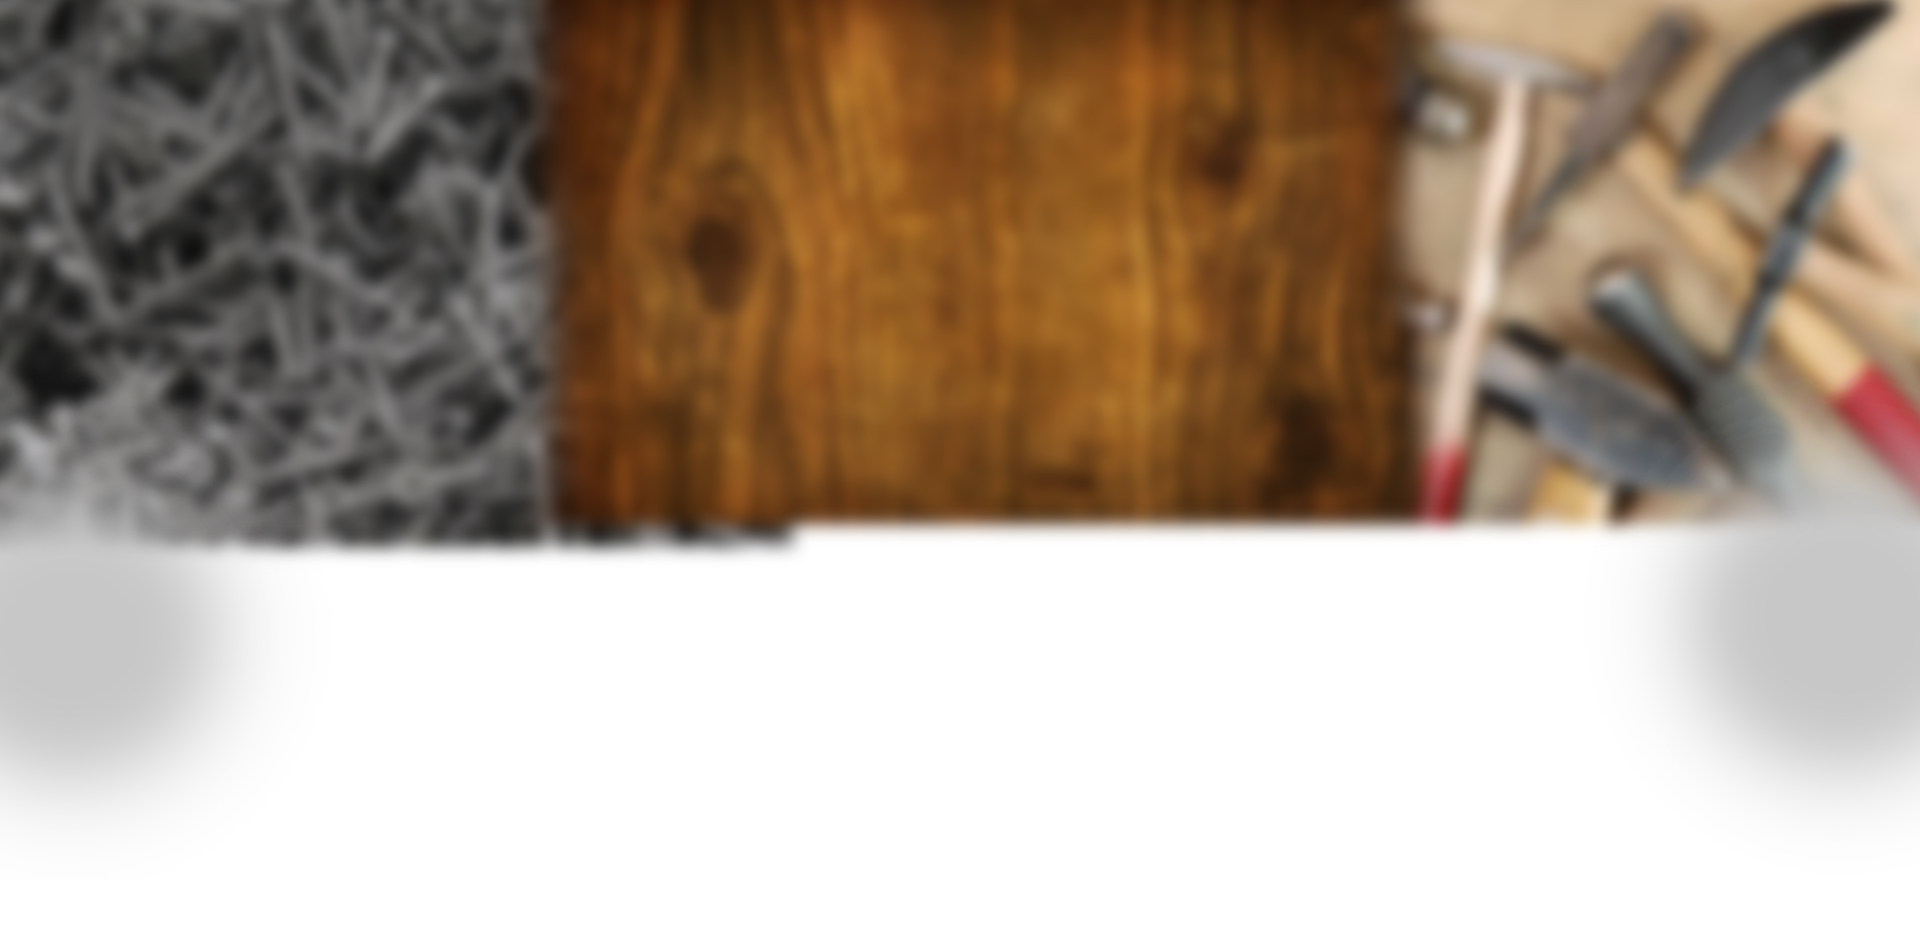
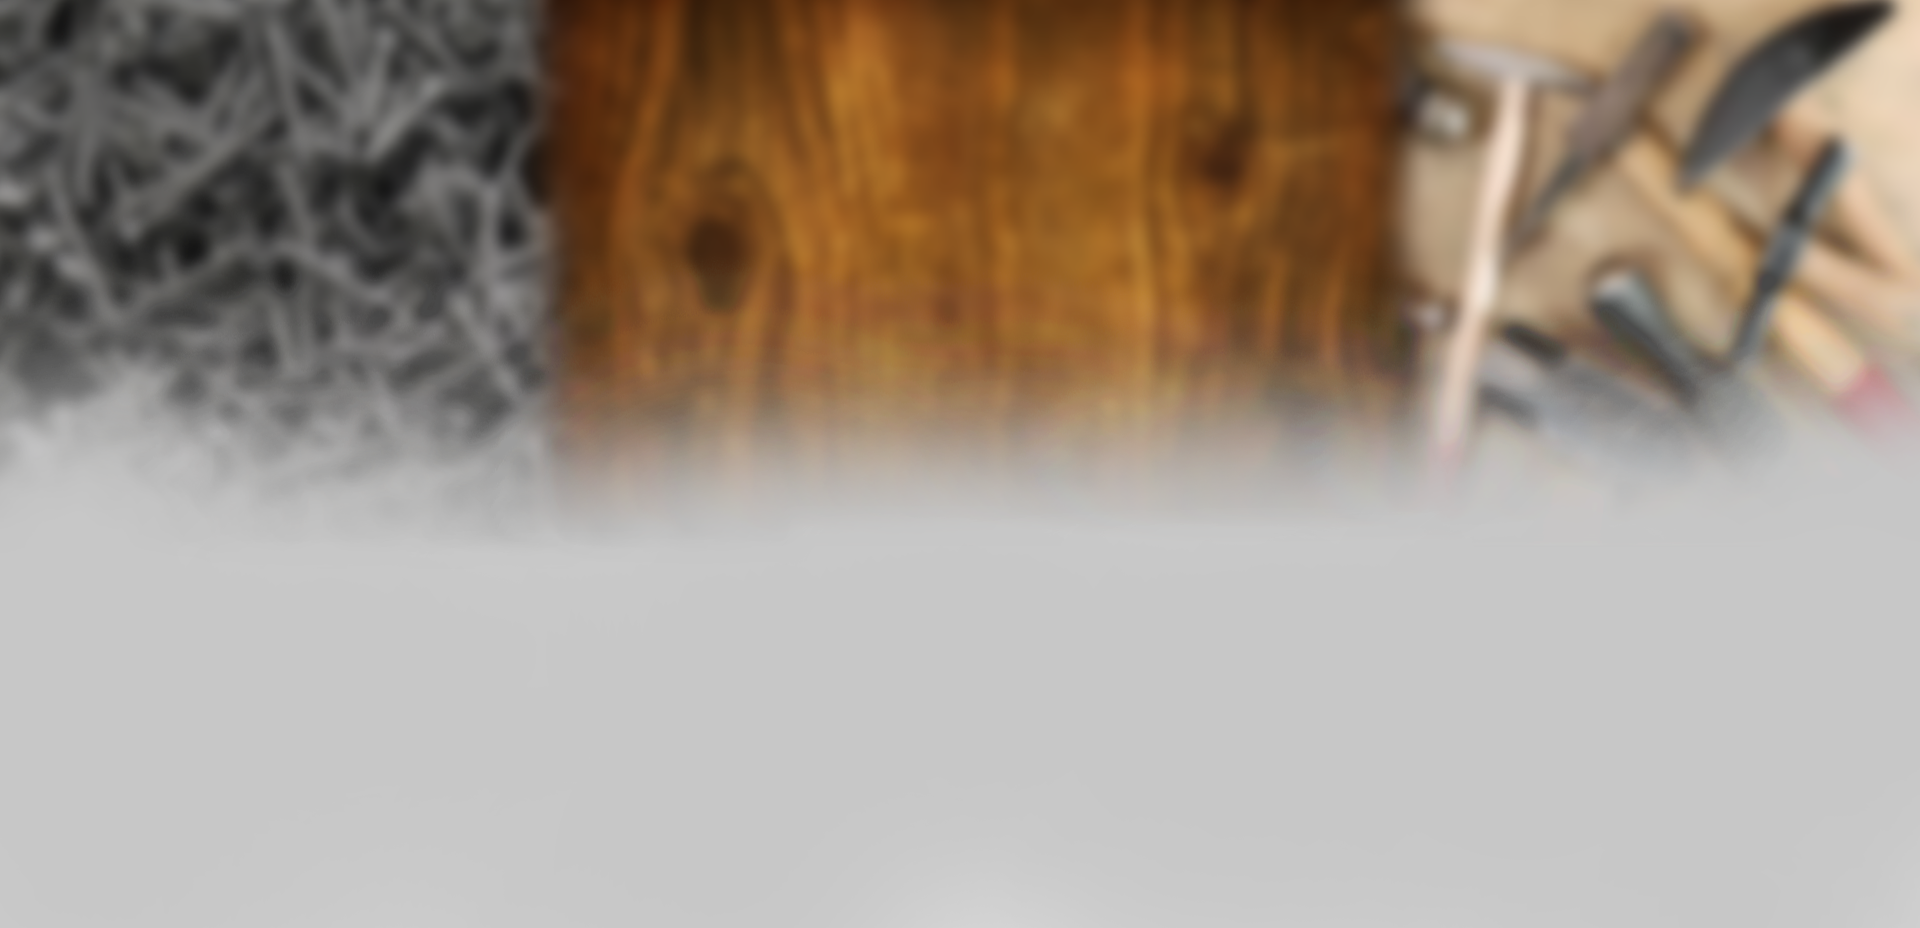
lots
updated the bg graphic
added logo and title
added 'resistant materials'
added nice scaling friendly padding
-still doesnt scroll

diff --git a/ResistantMaterials.html b/ResistantMaterials.html
@@ -12,23 +12,44 @@
     top: 240px;
     left: 5%;
     right: 5%;
-    height 100px;
     z-index: 1;
     margin-right: 10;
     
 }
-#bodycontent {
-    margin-left: 20px;
-    margin-right: 20px;
+#highdownlogo{
+    margin-top: 10px;
+    margin-left:20px;
+    background-image: url("/graphics/highdown%20100x%20white.png");
+    height: 70px;
+    background-size:contain;
+    background-repeat:no-repeat;
+    }
+#highdowntitle {
+    font-size: 45px;
+    font-family: roboto;
+    color: #ffffff;
+    margin-left: 100px;
+    margin-top: 15px;
+}
+#pagetitle{
+    font-family: Roboto;
+    font-size: 72px;
+    text-align: center;
     margin-top: 20px;
-    height: 100%;
-    overflow-y: scroll;
-    position: absolute;
-    z-index: 1;
+    color: #ffffff;
+}
+#bodycontent {
+    margin-left: 10%;
+    margin-right: 10%;
+    margin-top: 7%;
+    color: #000000;
+    text-align: left;
+    font-family: roboto light;
+    font-size: 20px;
     
 }
 #gallery-background {
-    position: absolute;
+    position: fixed;
 
     top: 100px;
     left: 0;
@@ -75,23 +96,30 @@ ul {
 
 <body>
 <!-- HTML here -->
-
-<div id="gallery-background"></div>
-<div id="titlebg"></div>
-<ul class="stickyNavBar">
-  <li><a>OBJECT 1</a></li>
-  <li><a>OBJECT 2</a></li>
-  <li><a>OBJECT 3</a></li>
-</ul>
-
-<div id="bodyblock">
-    <div id="bodycontent">
-        conteeent
-        <br><br><br><br><br><br><br><br><br><br><br><br><br><br><br><br><br><br><br><br><br><br><br><br><br><br><br><br><br><br><br><br><br><br><br><br><br><br><br><br><br><br><br><br><br><br><br><br><br><br><br><br><br><br><br><br><br><br><br><br><br><br><br><br><br><br><br><br><br><br><br>
-        content
- 
+<div id="highdownlogo">
+<div id="highdowntitle">
+    Highdown School DT
+</div>
     </div>
-</div> 
+<div id="gallery-background">   
+    <div id="titlebg"></div>
+        <div id="pagetitle">
+            Resistant Materials
+            <div id="bodyblock">
+                <div id="bodycontent">
+                    <h1>content title</h1>
+                    <p></p>
+                    content
+                    <p></p>
+                    more
+                    <p></p>
+                    snazzy
+                    <br><br><br><br><br><br><br><br><br><br><br><br><br><br><br><br><br><br><br><br><br><br><br><br><br><br><br><br><br><br><br><br><br><br><br><br><br><br><br><br><br><br><br><br><br><br><br><br><br><br><br><br><br><br><br><br><br><br><br><br>v
+                </div>
+            </div>
+        </div> 
+    
+</div>
 </body>
 
 </html>
